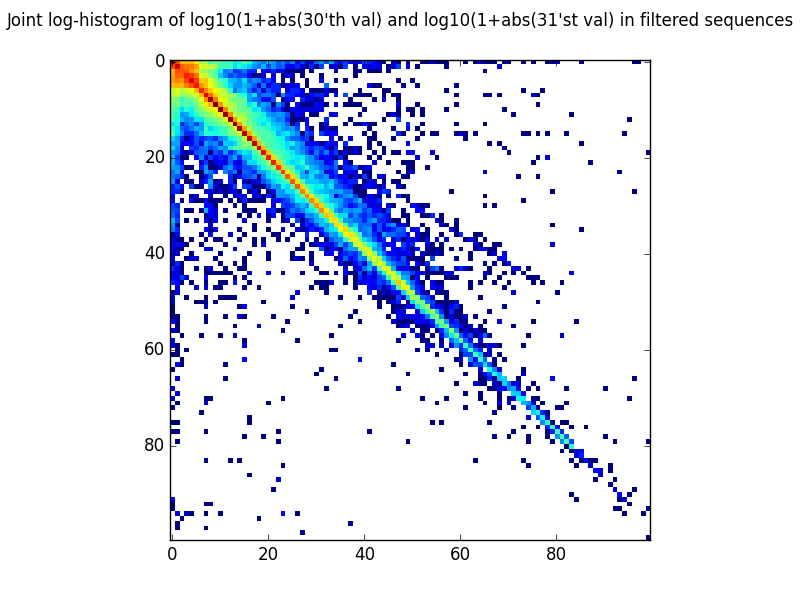
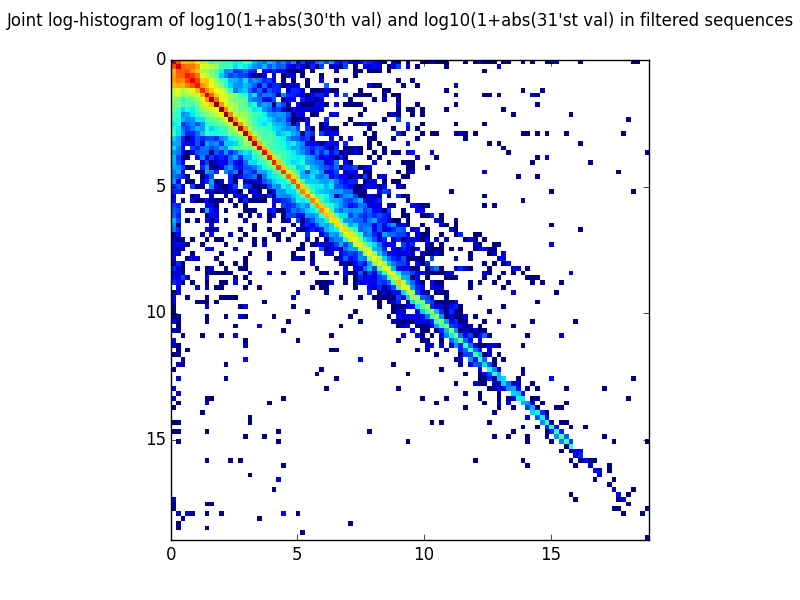
fixing figure axis

diff --git a/prediction/lowdim_stats_figs.py b/prediction/lowdim_stats_figs.py
@@ -90,7 +90,7 @@ if __name__ == "__main__":
     fig.savefig(os.path.join(oeis_dir, 'figs', 'prediction', 'lowdim_stats', 'hist_log_values_31st.png'))
     fig = plt.figure()
     H, x, y = np.histogram2d(np.log10(1+np.abs(vals_29)), np.log10(1+np.abs(vals_30)), bins=100)
-    plt.imshow(np.log10(H), interpolation='nearest')
+    plt.imshow(np.log10(H), interpolation='nearest', extent=[x[0],x[-1],y[-1],y[0]])
     fig.suptitle("Joint log-histogram of log10(1+abs(30'th val) and log10(1+abs(31'st val) in filtered sequences")
     fig.savefig(os.path.join(oeis_dir, 'figs', 'prediction', 'lowdim_stats', 'hist_joint_log_values_30th_31st.png'))
 
